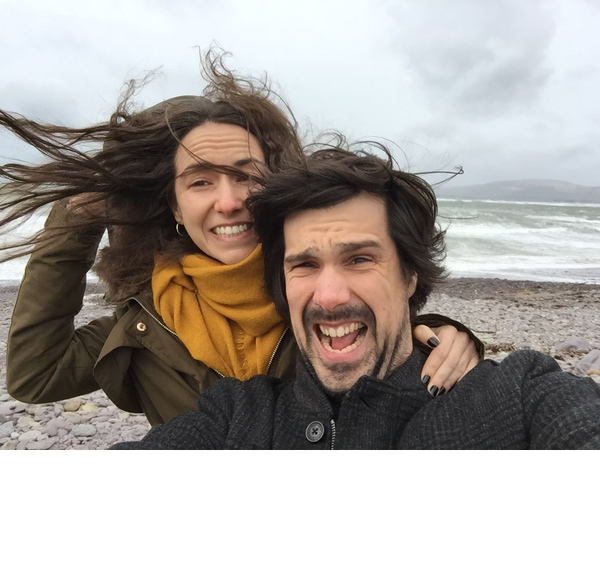
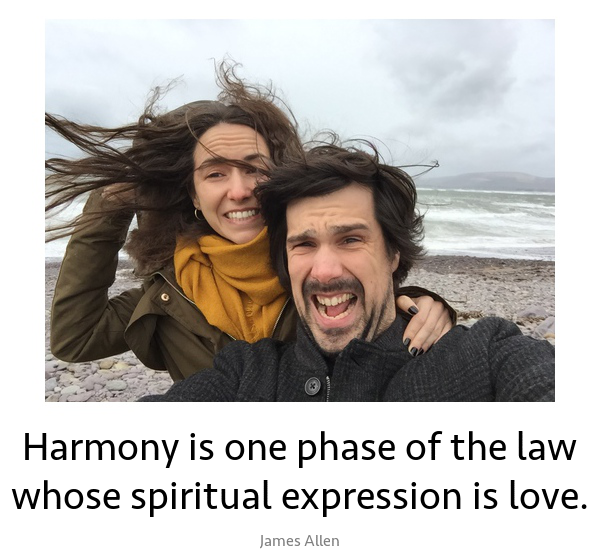
kinda working

diff --git a/server/controllers/imageGenerator.js b/server/controllers/imageGenerator.js
@@ -1,9 +1,29 @@
 
 var fs = require('fs'),
     gm = require('gm').subClass({imageMagick: true}),
-    path = require('path');
+    path = require('path'),
+    exec = require('child_process').exec;
 
 var dir = path.resolve(__dirname, '../../uploads') + '/' ;
+    WIDTH = 600,
+    fonts = [
+      'Seravek-Light-Italic',
+      'Noteworthy-Light',
+      'MyriadPro-Cond',
+      'MyriadPro-Semibold'
+    ];
+
+function _getCaptionName(img){
+  return img.split('.')[0] + '_caption.gif';
+}
+
+function _getAuthorFileName(img){
+  return img.split('.')[0] + '_author.gif';
+}
+
+function _getRandomFont(){
+  return fonts[Math.floor(fonts.length * Math.random())];
+}
 
 var ImageGenerator = {
   getResizedStream: function(imgName, stream){
@@ -13,42 +33,52 @@ var ImageGenerator = {
       .pipe(stream);
   },
 
-  generateImage: function(imgName, quote, author){
-    var marginBottom = 50,
-        lineHeight = 40;
+  generateImage: function(imgName, quoteObj){
+    var marginBottom = 38,
+        arr = imgName.split('.'),
+        imgFileName = arr[0],
+        ext = arr[1],
+        quote = quoteObj.quote,
+        author = quoteObj.by;
 
-    gm(dir + imgName)
-      .resize(600, 600)
-      .stream(function(err, stdout){
-        gm(stdout).size({bufferStream: true}, function(err, size){
 
-          this
-            .extent(size.width, size.height + marginBottom + lineHeight * 2)
-            .gravity("South")
-            .font("Noteworthy-Light", 40)
-            .stroke('#000')
-            .strokeWidth(1)
-            .comment(quote)
-            .write(dir + 'new.png', function (err) {
-              if (!err) console.log('done');
-              else console.log(err)
-            });
+    ImageGenerator.generateLabel(quote, author, imgName, function(){
+      gm(dir + imgName)
+        .resize(WIDTH*.85, 600)
+        .stream(function(err, stdout){
+          gm(stdout).size({bufferStream: true}, function(err, size){
+            this
+              .gravity("Center")
+              .extent(WIDTH, size.height + marginBottom)
+              .stream(function(e, stdout2){
+                gm(stdout2)
+                  .append(dir + _getCaptionName(imgName))
+                  .append(dir + _getAuthorFileName(imgName))
+                  .write(dir + imgFileName +'_final.' + ext, function (err) {
+                    console.log('done');
 
-          // this
-          //   .extent(size.width, size.height + marginBottom + lineHeight * 2)
-          //   .font("Noteworthy-Light", 40)
-          //   .stroke('#000')
-          //   .strokeWidth(1)
-          //   .drawText(20, size.height + marginBottom, quote)
-          //   .font("PT-Sans-Italic", 18)
-          //   .drawText(20, size.height + marginBottom + lineHeight, author)
-            // .write(dir + 'new.png', function (err) {
-            //   if (!err) console.log('done');
-            //   else console.log(err)
-            // });
+                    // clean up
+                    exec('rm '+dir + _getCaptionName(imgName));
+                    exec('rm '+dir + _getAuthorFileName(imgName));
+                  });
+              })
+           });
         })
-      })
+    })
+  },
 
+  generateLabel: function(text, author, imgName, callback){
+    var quoteFile = dir + _getCaptionName(imgName),
+        authorFile = dir + _getAuthorFileName(imgName);
+
+    exec("convert -background white -fill black -gravity South -font "+ _getRandomFont() +" -pointsize 40 -size "+WIDTH+"x caption:'"+text+"' "+quoteFile,
+        function (error, stdout, stderr) {
+          exec("convert -background white -fill gray -gravity South -font Seravek-Light-Italic -pointsize 16 -size "+WIDTH+"x30 caption:'"+author+"' "+authorFile,
+            function (error, stdout, stderr) {
+              callback && callback();
+            });
+        }
+    );
 
   }
 }

diff --git a/server/routes/quotes.js b/server/routes/quotes.js
@@ -4,6 +4,11 @@ var request = require('request'),
 
 var defaultTags = [/*'funny'*/];
 
+function _selectQuote(quotes){
+  // @todo
+  return quotes[Math.floor(quotes.length * Math.random())];
+}
+
 // Get awesome quotes (endpoint handler)
 var getQuotes = function(req, res, next){
   var options = {
@@ -26,19 +31,22 @@ var getQuotes = function(req, res, next){
   request(options, function (error, response, body) {
     if (!error && response.statusCode == 200) {
       console.log('QUOTE', body, req.query);
-      res.send(
-        body.results
+      var quotes =body.results
           // map quote data
-          .map(function(result){return {
-            quote: result['bqquotelink_link/_text'],
-            by:    result['kennybaker_link/_text']
-          };})
+          .map(function(result){
+            return {
+              quote: result['bqquotelink_link/_text'],
+              by:    result['kennybaker_link/_text']
+            };
+          })
 
           // Filter quotes by length
           .filter(function(quote){
             return quote.quote && quote.quote.length;
           })
-      );
+
+        req.query.quote = _selectQuote(quotes);
+        next();
     }
   });
 };

diff --git a/server/index.js b/server/index.js
@@ -1,6 +1,7 @@
 var app        = require('express')(),
     bodyParser = require('body-parser'),
-    multer     = require('multer');
+    multer     = require('multer'),
+    ImageGenerator = require('./controllers/imageGenerator');
 
 // CORS Handling
 app.use(function(req, res, next) {
@@ -15,7 +16,15 @@ app.use(function(req, res, next) {
 
 // Endpoints
 app.get('/quotes', require('./routes/quotes'));
-app.post('/upload', multer({ dest: './uploads/'}), require('./routes/upload'), require('./routes/quotes'));
+app.post('/upload',
+  multer({ dest: './uploads/'}),
+  require('./routes/upload'),
+  require('./routes/quotes'),
+  function(req, res){
+    console.log(req.query.quote);
+    ImageGenerator.generateImage(req.query.imageName, req.query.quote);
+    res.send({ok: 1});
+  });
 
 var server = app.listen(3000, function () {
   var address = server.address();

diff --git a/server/routes/upload.js b/server/routes/upload.js
@@ -41,13 +41,15 @@ var imageUpload = function(req, res, next){
     var tags = [
       body.results[0].result.tag.classes[0]
     ];
-    
+
     console.log('USE TAGS: ', tags.join(', '));
 
     // Assign tags to query
     req.query = {
       q:tags.join(' ')
     };
+
+    req.query.imageName = image.name;
 
     next();
 

diff --git a/server/tests/testImage.js b/server/tests/testImage.js
@@ -2,3 +2,4 @@
 var imageGenerator = require('../controllers/imageGenerator');
 
 imageGenerator.generateImage('test.jpg', 'Harmony is one phase of the law whose spiritual expression is love.', 'James Allen');
+
